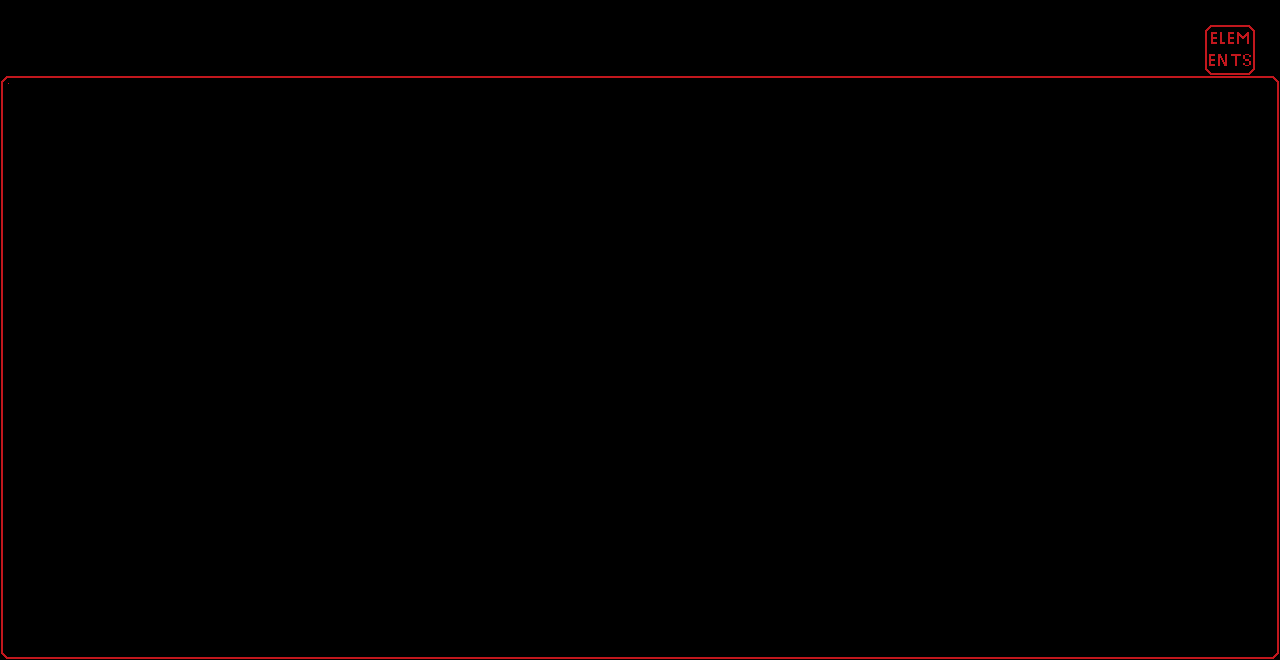
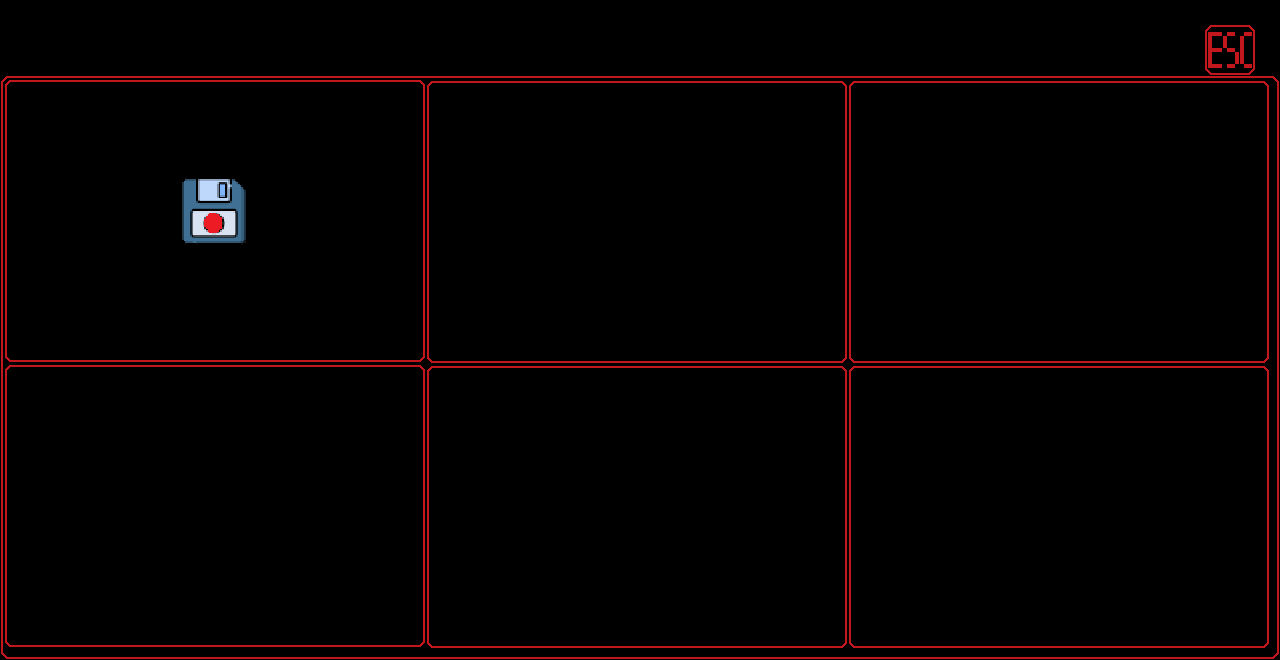
add load area

diff --git a/game.py b/game.py
@@ -116,16 +116,10 @@ class Game:
             self.draw()
 
     def update(self):
-        # mouse_pos = pygame.mouse.get_pos()
         pygame.display.set_caption(
             f'{self.clock.get_fps()} amount: {len(self.elements_group)}')
         self.space.step(1 / FPS)
         self.elements_group.update()
-        # if self.line_point1 is not None:
-        #     p1 = int(self.line_point1[0]), int(self.line_point1[1])
-        #     p2 = mouse_pos[0], mouse_pos[1]
-        #     pygame.draw.lines(self.screen, pygame.Color("black"),
-        #                       False, [p1, p2])
 
     def erase_element(self, mouse_pos):
         for sprite in self.elements_group.sprites():
@@ -141,8 +135,15 @@ class Game:
         max_x = (max_x + BLOCK_SIZE - 1) // BLOCK_SIZE * BLOCK_SIZE
         max_y = max(self.save_point1[1], self.save_point2[1])
         max_y = (max_y + BLOCK_SIZE - 1) // BLOCK_SIZE * BLOCK_SIZE
-        with open(f'{number_of_file}_area.save', 'wb') as file:
+        file_name = ''
+        if number_of_file == '0':
+            file_name = 'saves/game.save'
+        else:
+            file_name = f'saves/{number_of_file}_area.save'
+        with open(file_name, 'wb') as file:
             data = []
+            if number_of_file != '0':
+                data.append(((min_x + max_x) // 2,  (min_y + max_y) // 2))
 
             for sprite in self.elements_group:
                 if sprite.rect.x >= min_x and sprite.rect.x <= max_x and \
@@ -153,7 +154,14 @@ class Game:
         self.save_point1 = None
         self.save_point2 = None
         self.is_save_mode = False
+        self.select_area_menu.save_button.unselect_button()
         pygame.mouse.set_visible(True)
+        self.draw()
+        selected_surface = pygame.Surface((max_x - min_x, max_y - min_y))
+        selected_surface.blit(self.screen, (0, 0),
+                              (min_x, min_y, max_x, max_y))
+        pygame.image.save(selected_surface,
+                          f'images/saved_screenshots/{number_of_file}.png')
 
     def select_area(self):
         pygame.mouse.set_visible(False)
@@ -256,6 +264,7 @@ class Game:
                 self.menu.unselect_button()
             elif event.type == SAVE_AREA:
                 self.select_area()
+                self.selected_element = None
                 self.menu.unselect_button()
 
             elif (mouse_event[0] or mouse_event[2]) and \
@@ -294,10 +303,12 @@ class Game:
 
             if event.type == pygame.MOUSEBUTTONDOWN:
 
-                if self.is_save_mode and event.button == 1 and \
-                        self.table_rect.collidepoint(mouse_pos):
-                    self.save_point1 = mouse_pos
-
+                if self.is_save_mode and event.button == 1:
+                    if self.table_rect.collidepoint(mouse_pos):
+                        self.save_point1 = mouse_pos
+                    else:
+                        self.save_point1 = None
+                    self.save_point2 = None
                 if event.button == 1 and \
                         self.clear_rect.collidepoint(mouse_pos):
                     self.clear_screen()
@@ -313,7 +324,10 @@ class Game:
 
             elif event.type == pygame.MOUSEBUTTONUP:
                 if self.is_save_mode and event.button == 1:
-                    self.save_point2 = mouse_pos
+                    if self.table_rect.collidepoint(mouse_pos):
+                        self.save_point2 = mouse_pos
+                    else:
+                        self.save_point1 = None
             elif event.type == pygame.KEYDOWN:
                 if event.key == pygame.K_1 and self.is_save_mode:
                     self.save_area('1')
@@ -327,6 +341,8 @@ class Game:
                     self.save_area('5')
                 elif event.key == pygame.K_6 and self.is_save_mode:
                     self.save_area('6')
+                elif event.key == pygame.K_0 and self.is_save_mode:
+                    self.save_area('0')
 
             if event.type == LOAD_GAME:
                 self.load_game(event.message)
@@ -375,10 +391,10 @@ class Game:
                     selected_surface.fill((255, 255, 255, 128))
                     self.screen.blit(selected_surface, (min_x, min_y))
                 else:
-                    min_x = min(self.save_point1[0], self.mouse_pos[0])
-                    min_y = min(self.save_point1[1], self.mouse_pos[1])
-                    max_x = max(self.save_point1[0], self.mouse_pos[0])
-                    max_y = max(self.save_point1[1], self.mouse_pos[1])
+                    min_x = min(self.save_point1[0], mouse_pos[0])
+                    min_y = min(self.save_point1[1], mouse_pos[1])
+                    max_x = max(self.save_point1[0], mouse_pos[0])
+                    max_y = max(self.save_point1[1], mouse_pos[1])
                     selected_surface = pygame.Surface(
                         (max_x - min_x, max_y - min_y), pygame.SRCALPHA)
                     selected_surface.fill((255, 255, 255, 128))
@@ -414,91 +430,3 @@ game = Game()
 while game.running:
     game.new()
 pygame.quit()
-
-
-# Чтобы изменить курсор мыши на свою картинку в Pygame, вам понадобится
-# загрузить изображение и установить его в качестве курсора. Вот пример кода:
-# import pygame
-
-# # Инициализация Pygame
-# pygame.init()
-
-# # Загрузка изображения курсора
-# cursor_image = pygame.image.load("путь_к_вашей_картинке.png")
-
-# # Установка изображения курсора
-# pygame.mouse.set_cursor((24, 24), (0, 0),
-# *pygame.cursors.compile(pygame.cursors.sizer_x_strings))
-
-# # Создание окна
-# screen = pygame.display.set_mode((800, 600))
-
-# # Основной игровой цикл
-# running = True
-# while running:
-#     for event in pygame.event.get():
-#         if event.type == pygame.QUIT:
-#             running = False
-
-#     # Отображение курсора
-#     screen.blit(cursor_image, pygame.mouse.get_pos())
-
-#     pygame.display.flip()
-
-# # Завершение работы Pygame
-# pygame.quit()
-# В этом примере мы используем функцию  `pygame.mouse.set_cursor()`  для
-# установки изображения курсора. Сначала мы загружаем картинку с помощью
-# `pygame.image.load()` . Затем мы используем функцию
-# `pygame.mouse.set_cursor()`  для установки изображения курсора.
-# В данном случае мы используем стандартный курсор  `sizer_x` , но вы можете
-# выбрать другой стандартный курсор или создать свой собственный.
-
-# После установки курсора мы отображаем его на экране с помощью функции
-# `screen.blit()` .  `pygame.mouse.get_pos()`  используется для получения
-# текущей позиции курсора.
-
-# Надеюсь, это поможет вам изменить курсор мыши на свою картинку в Pygame!
-
-
-# Чтобы вернуть стандартный курсор в Pygame после установки собственного
-# курсора, вы можете использовать функцию  `pygame.mouse.set_cursor()`  с
-# аргументом  `pygame.SYSTEM_CURSOR_ARROW` . Вот пример кода:
-# import pygame
-
-# # Инициализация Pygame
-# pygame.init()
-
-# # Загрузка изображения курсора
-# cursor_image = pygame.image.load("путь_к_вашей_картинке.png")
-
-# # Установка изображения курсора
-# pygame.mouse.set_cursor((24, 24), (0, 0),
-# *pygame.cursors.compile(pygame.cursors.sizer_x_strings))
-
-# # Создание окна
-# screen = pygame.display.set_mode((800, 600))
-
-# # Основной игровой цикл
-# running = True
-# while running:
-#     for event in pygame.event.get():
-#         if event.type == pygame.QUIT:
-#             running = False
-
-#     # Отображение курсора
-#     screen.blit(cursor_image, pygame.mouse.get_pos())
-
-#     pygame.display.flip()
-
-# # Возвращение стандартного курсора
-# pygame.mouse.set_cursor(pygame.SYSTEM_CURSOR_ARROW)
-
-# # Завершение работы Pygame
-# pygame.quit()
-# В этом примере, после основного игрового цикла, мы используем
-# `pygame.mouse.set_cursor(pygame.SYSTEM_CURSOR_ARROW)` ,
-# чтобы вернуть стандартный курсор (стрелку). Это восстановит
-# стандартный курсор после того, как вы закончите использовать
-# собственный курсор.
-# Надеюсь, это помогает!

diff --git a/load_menu.py b/load_menu.py
@@ -1,0 +1,21 @@
+import pygame
+from os import listdir
+
+
+class LoadMenu:
+    def __init__(self, screen):
+        self.screen = screen
+        self.background_image = pygame.image.load('images/load_menu.png')
+        self.red_diskette_image = pygame.image.load('images/diskette_red.png')
+        self.surfaces = []
+        files = listdir('saves')
+        for i in range(6):
+            surface = pygame.Surface((418, 278))
+            surface.blit(self.red_diskette_image, (181, 114))
+            self.surfaces.append(surface)
+        for name in files:
+            if name != 'game.save':
+                number_of_file = int(name[0])
+                image = pygame.image.load(
+                    f'images/saved_screenshots/{number_of_file}.png')
+                self.surfaces[number_of_file - 1].blit(image, )

diff --git a/load_and_save.py b/load_and_save.py
@@ -15,7 +15,7 @@ class SaveAllButton(Button):
         self.is_pressed = False
 
     def click_action(self, list_of_sprites):
-        with open('game.save', 'wb') as file:
+        with open('saves/game.save', 'wb') as file:
             data = []
 
             for sprite in list_of_sprites:
@@ -45,7 +45,7 @@ class LoadAllButton(SaveAllButton):
 
     def click_action(self, list_of_sprites):
         try:
-            with open('game.save', 'rb') as file:
+            with open('saves/game.save', 'rb') as file:
                 data = pickle.load(file)
                 pygame.event.post(
                     pygame.event.Event(LOAD_GAME, message=data))
